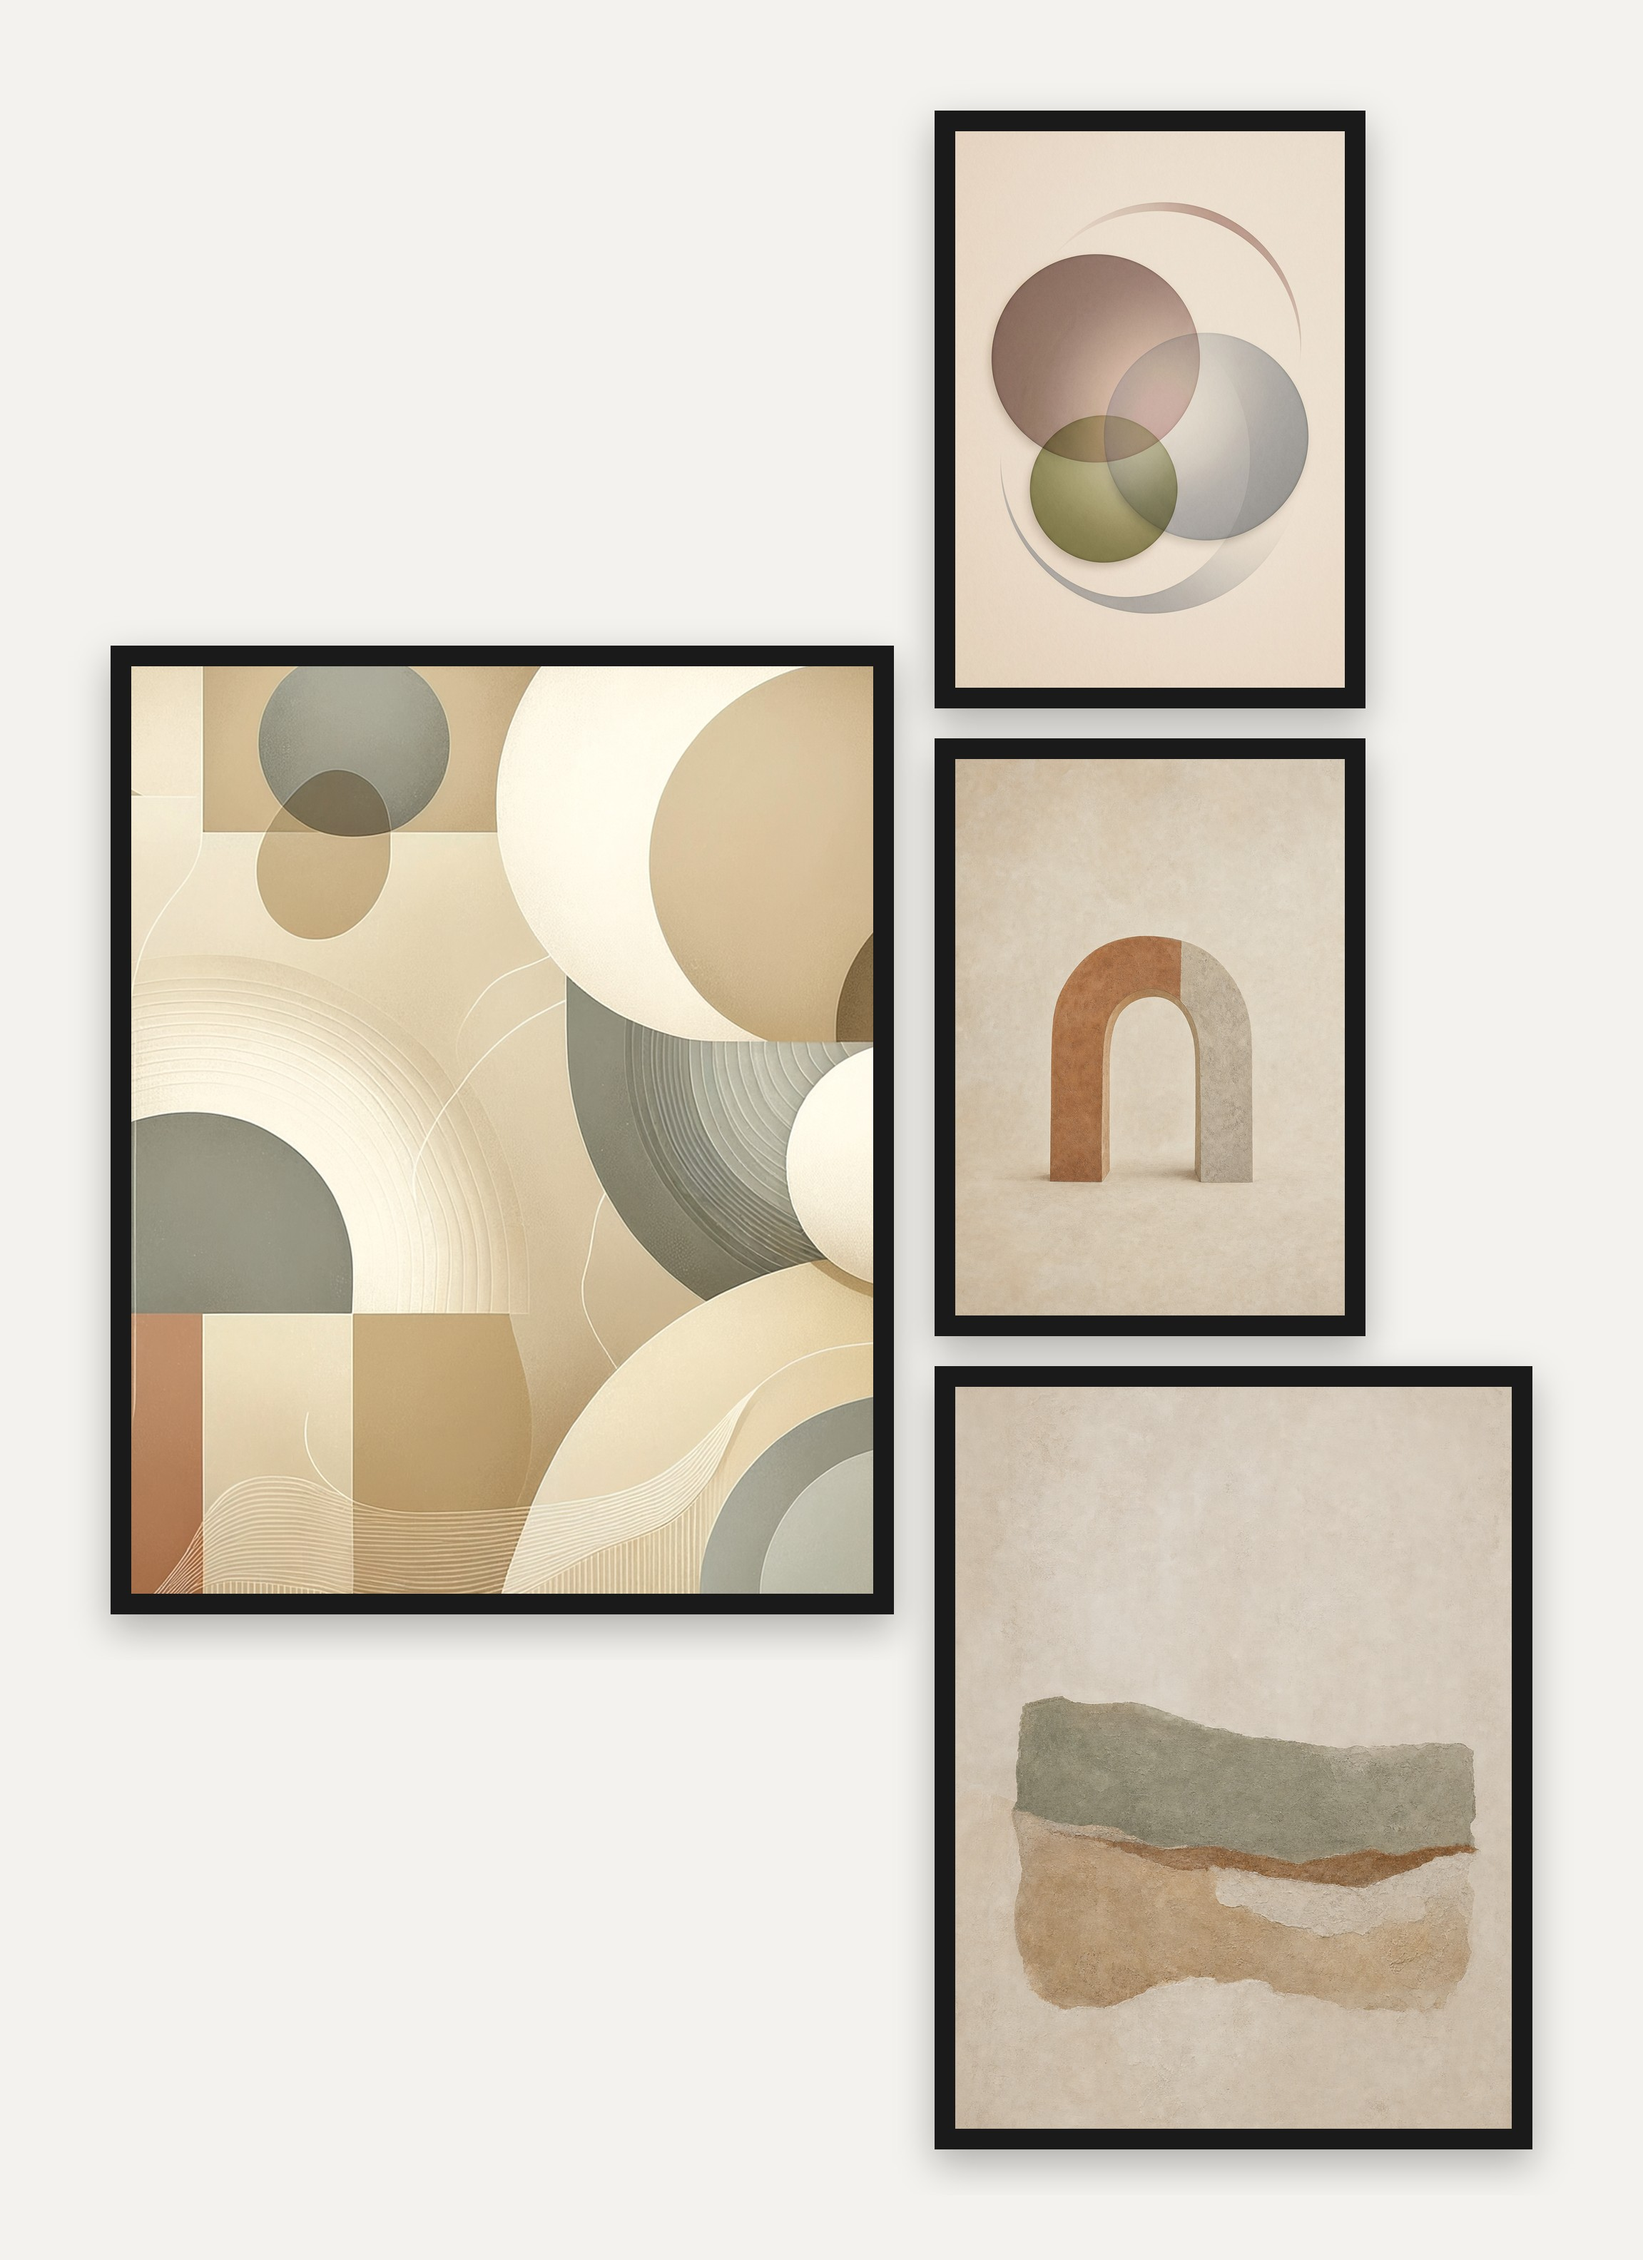
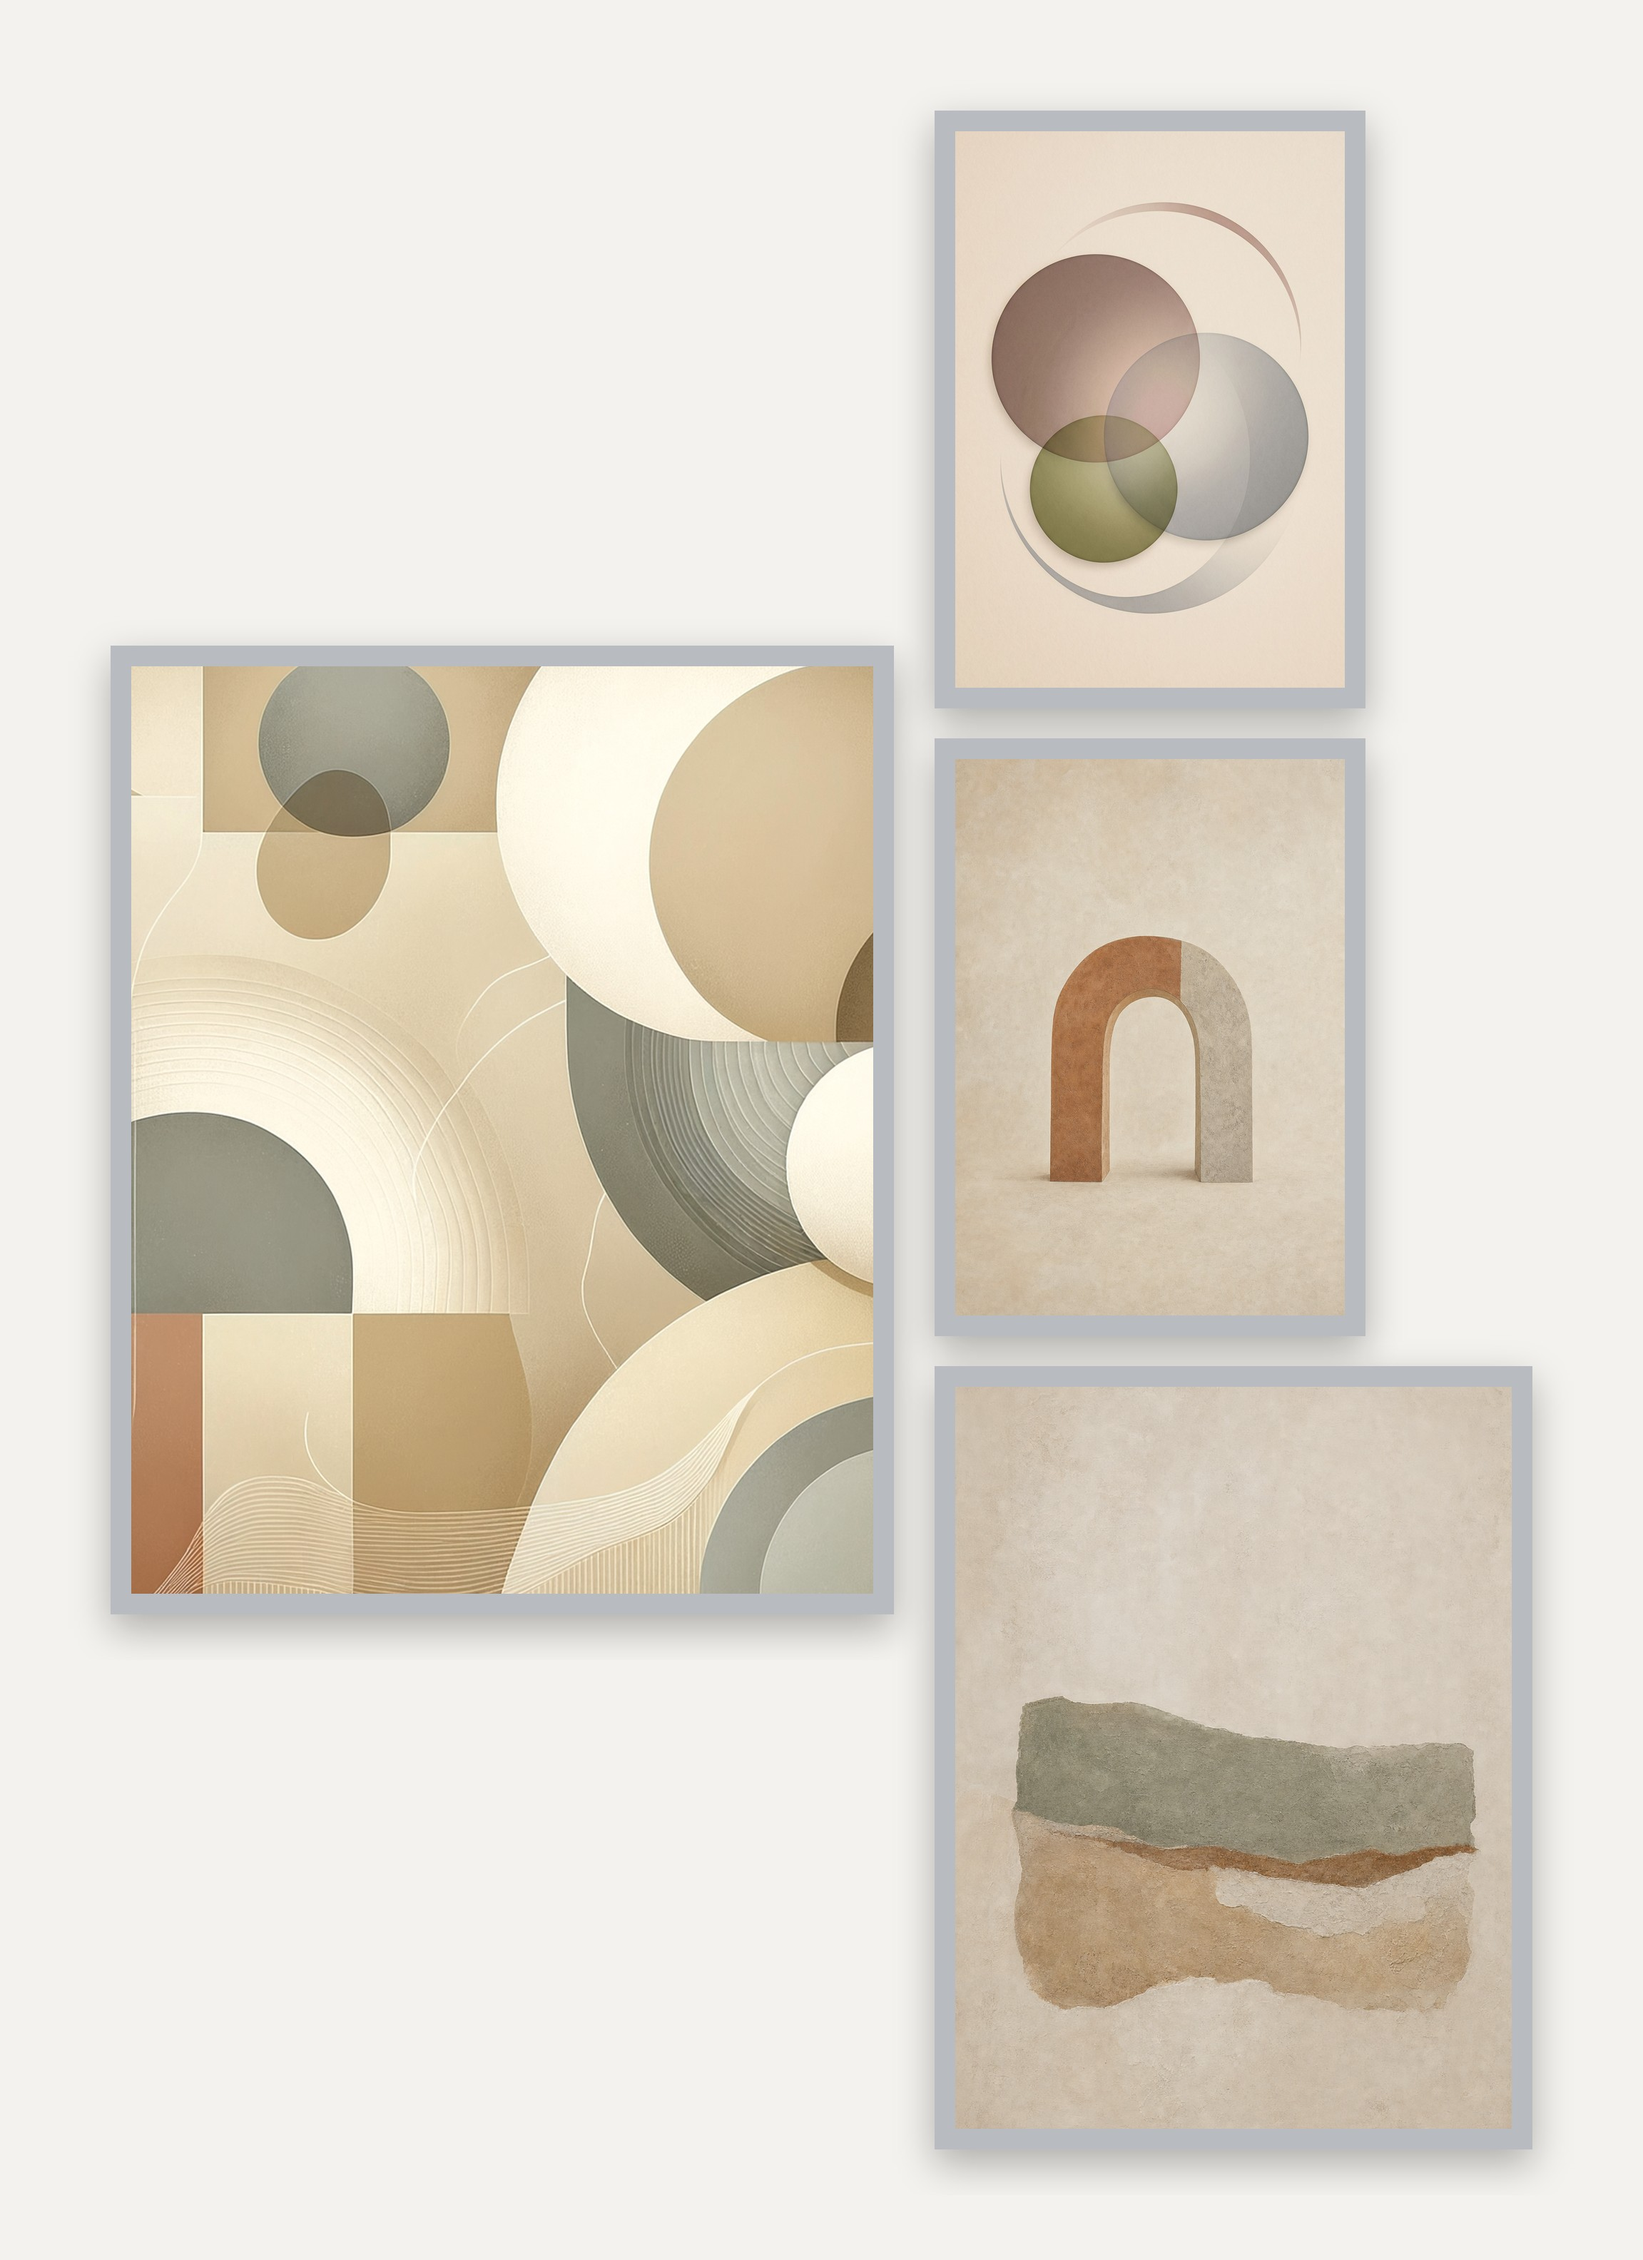
fix: packshot mial czarna rame mimo zmiany koloru w salonie (FRAME_HEX brakowal)

Changed region(s): [[0.0617, 0.0312, 0.9557, 0.9688]]

diff --git a/scripts/urozmaicKatalog.js b/scripts/urozmaicKatalog.js
@@ -21,6 +21,20 @@ const ROOT = path.join(__dirname, '..');
 const INVENTORY = path.join(ROOT, 'posters_inventory.json');
 const MODEL = 'gpt-image-2.5-sunburst';
 
+// Przyblizone kolory realnych ram (frames/products/<kolor>/front.jpg) do
+// lokalnego (sharp) renderu packshotu — plaski prostokat, wiec nie oddaje
+// polysku metalu/usloju drewna, ale ma byc SPOJNY z kolorem, ktory salon
+// (AI) pokazuje, nie kontrastowac z nim.
+const FRAME_HEX = {
+  'czarny-mat': '#1a1a1a',
+  'srebrny': '#b8bcc0',
+  'miedziany': '#b8734f',
+  'zloty': '#b6924f',
+  'dab': '#c9a876',
+  'bialy': '#f0ece2',
+  'czarny': '#262220',
+};
+
 const PLAN = [
   { handle: 'architectural-sketch-wall-set', frame: 'dab' },
   { handle: 'garden-study-wall-set', frame: 'dab' },
@@ -68,7 +82,7 @@ function znajdzObraz(tytul) {
 
     process.stdout.write(plan.handle + ' (rama: ' + plan.frame + ', uklad: ' + layout + ')... ');
     try {
-      await buildGalleryPackshot(items, packshotOut, undefined, layout);
+      await buildGalleryPackshot(items, packshotOut, FRAME_HEX[plan.frame], layout);
       const refBuffer = fs.readFileSync(packshotOut);
       await buildGalleryInteriorAI(
         refBuffer,
